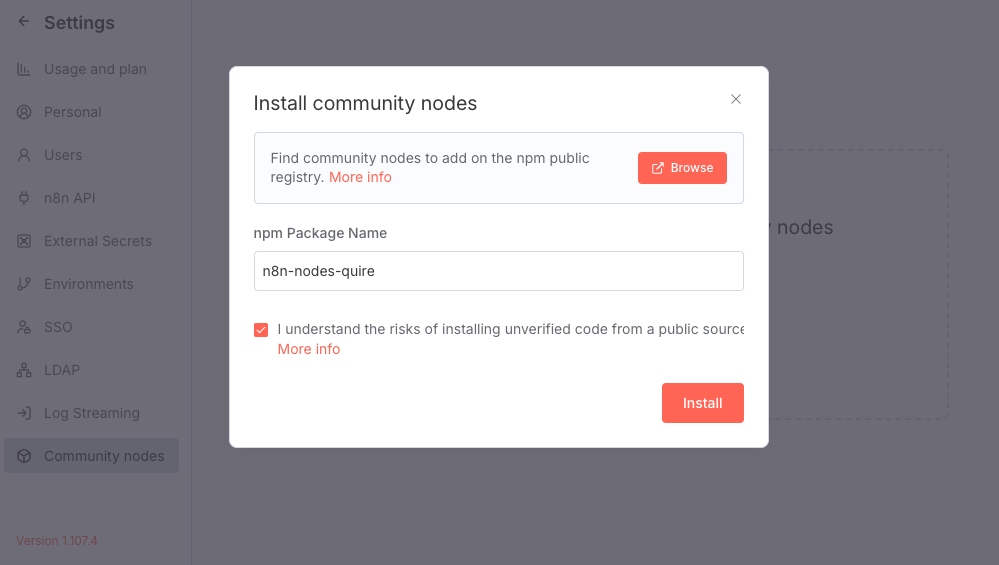
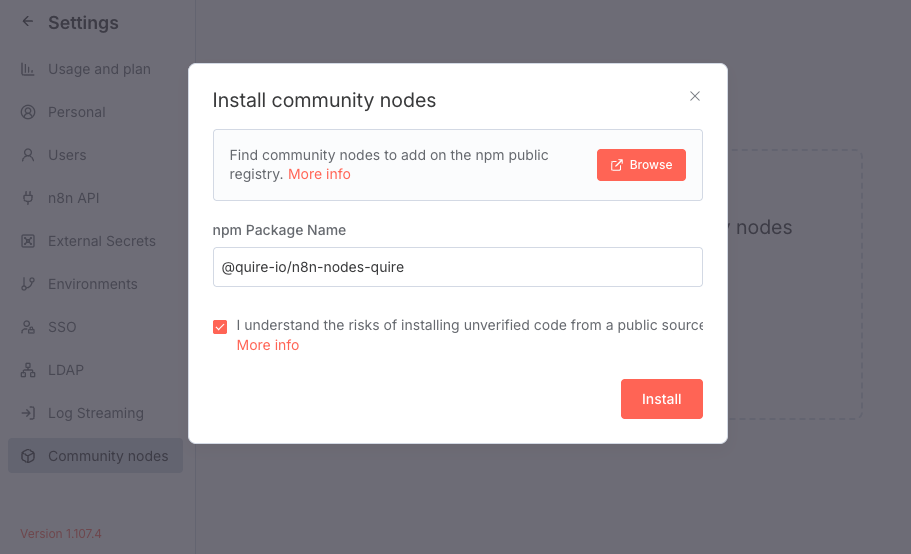
update package name

diff --git a/README.md b/README.md
@@ -34,7 +34,7 @@ Follow these steps to install the Quire community node:
 
    ![community-node-n8n](./img/community-node-n8n.png)
 
-3. **Install the Package**: Enter the npm package name `n8n-nodes-quire` and click **Install**
+3. **Install the Package**: Enter the npm package name [@quire-io/n8n-nodes-quire](https://www.npmjs.com/package/@quire-io/n8n-nodes-quire) and click **Install**
 
    ![install-node](./img/install-community-node.png)
 
